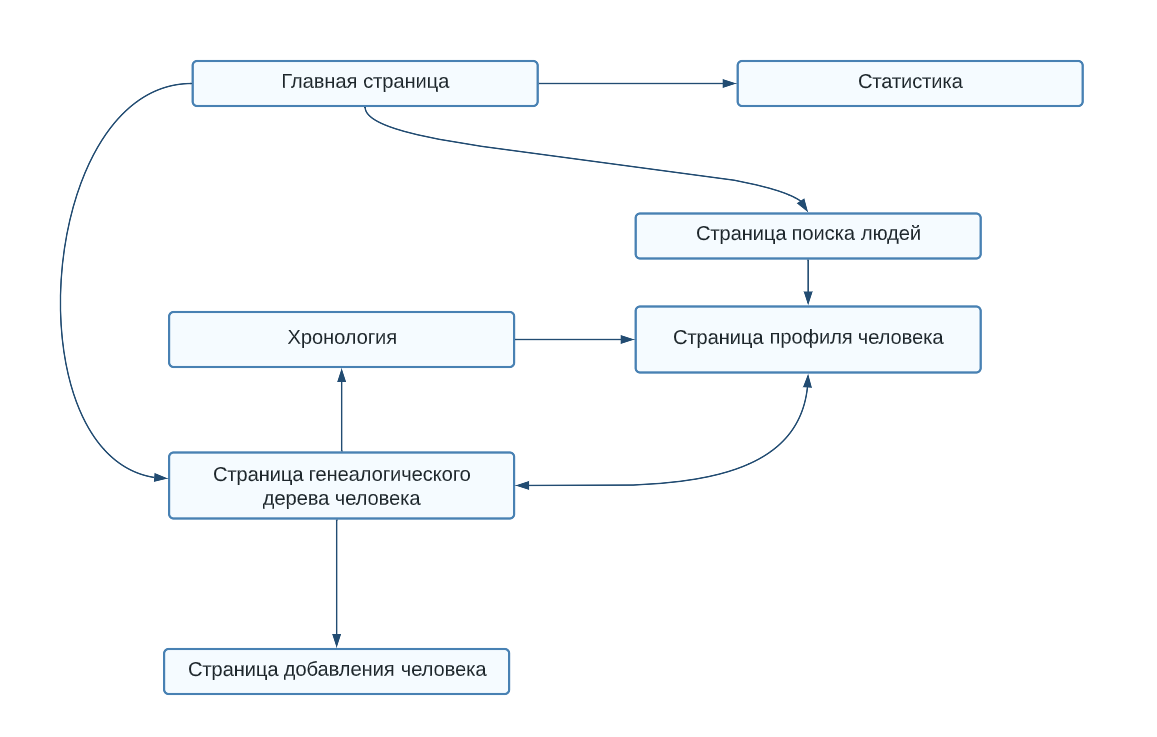
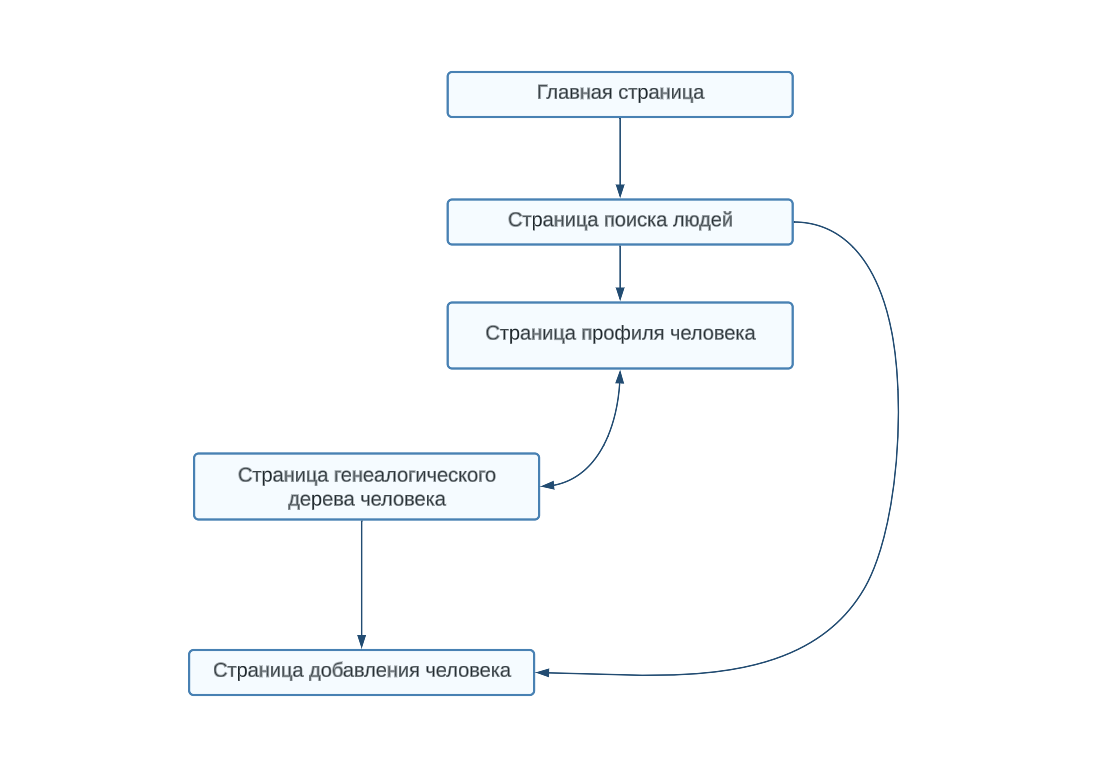
structure changes

diff --git a/README.md b/README.md
@@ -13,12 +13,13 @@
 С любой страницы можно перейти на главную.
 
 ### Главная страница
-* Кнопки для перехода на другие страницы в приложении.
 * Краткий обзор приложения и его возможностей.
+* Переход на страницу посика в приложении.
 ### Страница поиска людей
 * Панель поиска с различными фильтрами для поиска людей в базе данных.
 * Список результатов, отображающий основную информацию о каждом человеке, найденном в результате поиска.
 * Возможность просмотра страницы профиля каждого человека.
+* Кнопка для добавления человека.
 ### Страница профиля человека
 * Формы ввода для редактирования или обновления информации о человеке.
 * Кнопки для перехода к связанным людям в генеалогическом древе человека (например, к родителям, детям, братьям и сестрам).
@@ -30,14 +31,6 @@
 ### Страница добавления человека
 * Формы ввода для добавления нового человека в базу данных, включая его имя, даты рождения/смерти, отношения и другую соответствующую информацию.
 * Кнопка для сохранения нового человека в базе данных.
-### Хронология
-* Хронология жизни выбранного человека человека.
-* Кнопки для навигации по временной шкале и просмотра более подробной информации.
-* Возможность просмотра страницы профиля каждого человека.
-### Статистика
-* Различные диаграммы или графики, отображающие статистику о данных в базе данных.
-* Возможность фильтровать статистику по различным критериям.
-* Краткий обзор представленной статистики.
 
 Сценарии пользования
 =
@@ -55,13 +48,3 @@
 1. Перейти на страницу «Семейное древо».
 2. Выбрать человека, для которого хотим просмотреть дерево.
 3. Выбрать тип дерева, которое хотим просмотреть (предки, потомки или полное семейное дерево).
-### Просмотр хронологии
-1. Перейти на страницу «Хронология».
-2. Выбрать человека, для которого он хочет просмотреть хронологию.
-3. Выбрать любые соответствующие фильтры.
-4. Просмотреть хронологию на странице.
-### Просмотр статистики
-1. Перейти на страницу «Статистика».
-2. Выбрать тип статистики, которую хотим просмотреть.
-3. Выбрать любые соответствующие фильтры.
-4. Просмотреть статистику на странице.
